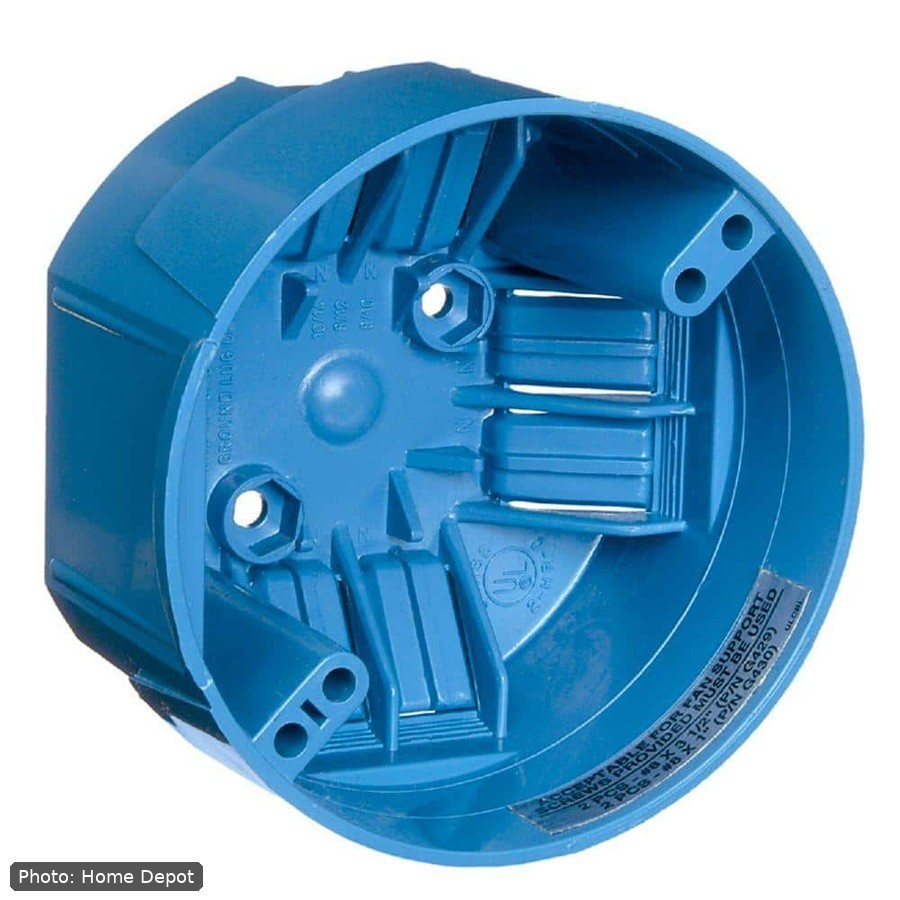
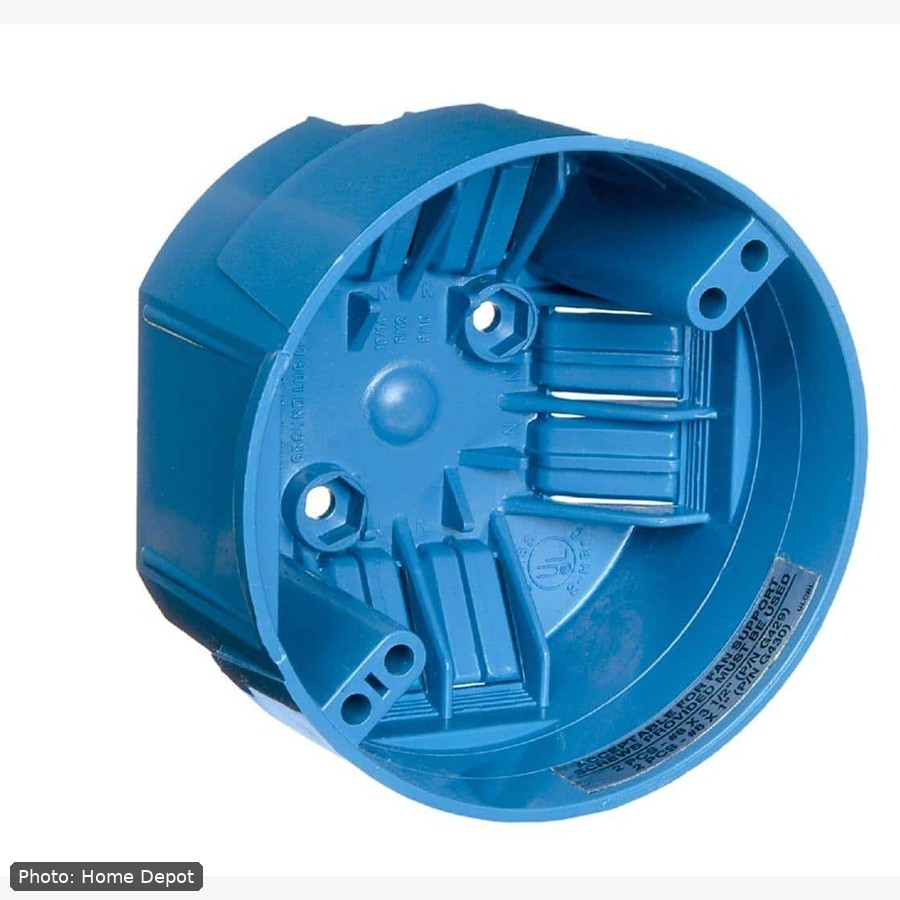
Refresh Fieldstock seed photos to retail v4

diff --git a/src/seed/closet2.ts b/src/seed/closet2.ts
@@ -445,7 +445,7 @@ function toRecord(spec: Closet2SeedSpec, photoCount: number, now: number): ItemR
   }
 }
 
-const CLOSET2_RETAIL_VERSION = '3'
+const CLOSET2_RETAIL_VERSION = '4'
 const CLOSET2_RETAIL_KEY = 'inventory-closet2-retail-version'
 
 /** Insert missing closet2 items; refresh photos + costs away from StoDo when version bumps. */

diff --git a/src/seed/closet3.ts b/src/seed/closet3.ts
@@ -302,7 +302,7 @@ function toRecord(spec: Closet3SeedSpec, photoCount: number, now: number): ItemR
   }
 }
 
-const CLOSET3_RETAIL_VERSION = '3'
+const CLOSET3_RETAIL_VERSION = '4'
 const CLOSET3_RETAIL_KEY = 'inventory-closet3-retail-version'
 
 /** Insert missing closet3 items; refresh photos + costs away from StoDo when version bumps. */

diff --git a/src/seed/drywall.ts b/src/seed/drywall.ts
@@ -184,7 +184,7 @@ async function fetchSeedPhoto(photoFile: string): Promise<Blob | undefined> {
 
 let seedLock: Promise<void> | null = null
 
-const SEED_PHOTO_VERSION = '3'
+const SEED_PHOTO_VERSION = '4'
 const SEED_PHOTO_VERSION_KEY = 'inventory-seed-photo-version'
 
 async function seedOnce(adapter: InventoryAdapter): Promise<void> {

diff --git a/src/seed/paint.ts b/src/seed/paint.ts
@@ -192,7 +192,7 @@ function toRecord(spec: PaintSeedSpec, photoCount: number, now: number): ItemRec
   }
 }
 
-const PAINT_LISTING_VERSION = '3'
+const PAINT_LISTING_VERSION = '4'
 const PAINT_LISTING_KEY = 'inventory-paint-listing-version'
 
 /** Insert missing paint items; refresh both photos to full retailer shots when version bumps. */
